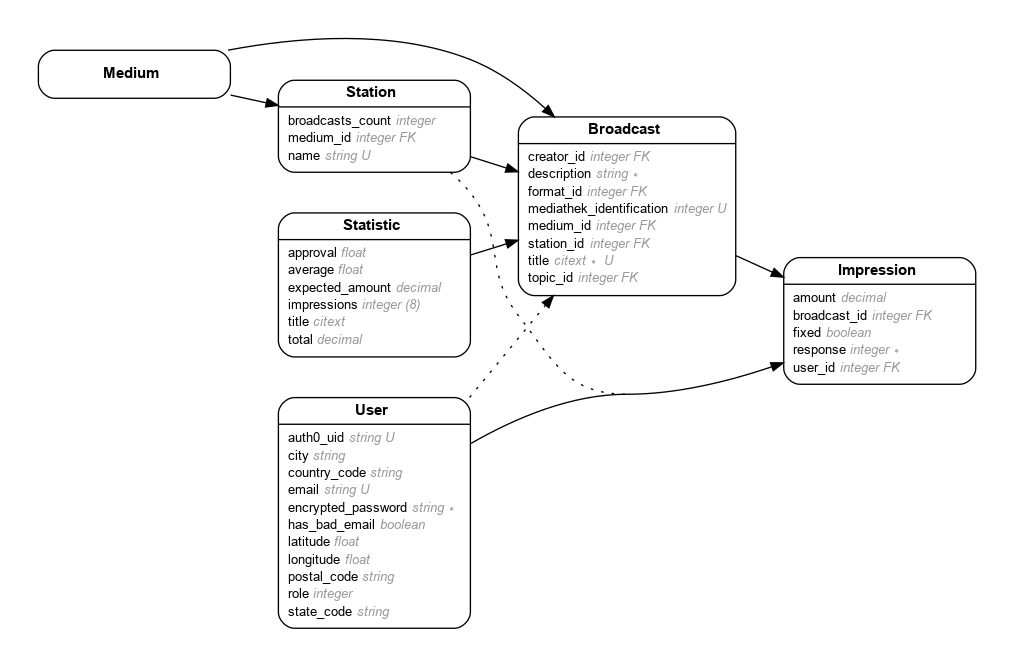
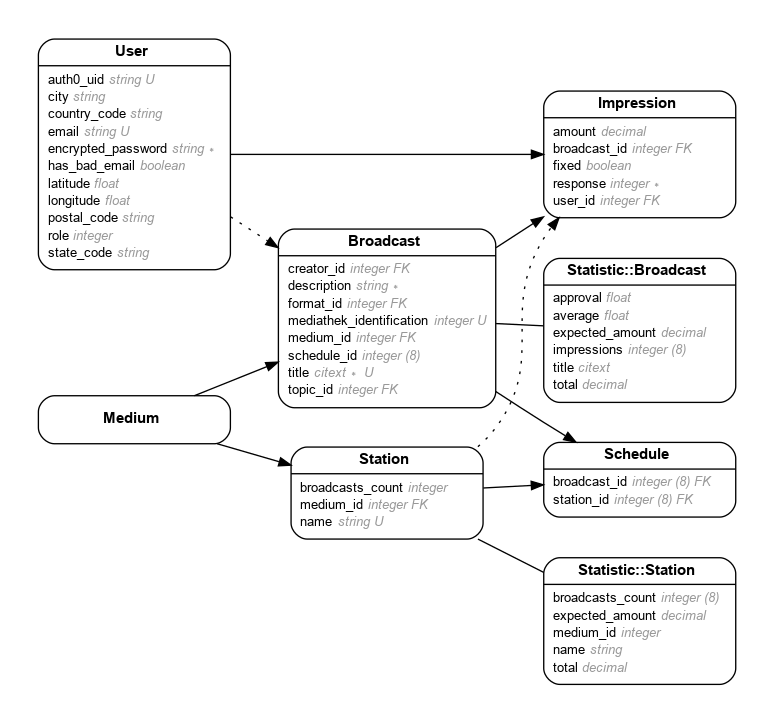
get the has_one/belongs_to associations right

diff --git a/backend/app/controllers/statistic/broadcasts_controller.rb b/backend/app/controllers/statistic/broadcasts_controller.rb
@@ -1,20 +1,22 @@
-class Statistic::BroadcastsController < ApplicationController
-  load_and_authorize_resource
+module Statistic
+  class BroadcastsController < ApplicationController
+    load_and_authorize_resource
 
-  def index
-    page = (statistics_params[:page] || 1).to_i
-    per_page = (statistics_params[:per_page] || 10).to_i
-    order_params = {}
-    # TODO: is there a better way to do this with strong params?
-    column = Statistic::Broadcast.column_names.include?(statistics_params[:column]) ? statistics_params[:column] : :total
-    direction = %w[asc desc].include?(statistics_params[:direction]) ? statistics_params[:direction] : :desc
-    order_params.store(column, direction)
+    def index
+      page = (statistics_params[:page] || 1).to_i
+      per_page = (statistics_params[:per_page] || 10).to_i
+      order_params = {}
+      # TODO: is there a better way to do this with strong params?
+      column = Statistic::Broadcast.column_names.include?(statistics_params[:column]) ? statistics_params[:column] : :total
+      direction = %w[asc desc].include?(statistics_params[:direction]) ? statistics_params[:direction] : :desc
+      order_params.store(column, direction)
 
-    @statistics = Statistic::Broadcast.order(order_params).order(title: :asc).page(page).per(per_page)
-    render json: @statistics, meta: { total_pages: @statistics.total_pages }
-  end
+      @statistics = Statistic::Broadcast.order(order_params).order(title: :asc).page(page).per(per_page)
+      render json: @statistics, meta: { total_pages: @statistics.total_pages }
+    end
 
-  def statistics_params
-    params.permit(:column, :direction, :page, :per_page)
+    def statistics_params
+      params.permit(:column, :direction, :page, :per_page)
+    end
   end
 end

diff --git a/backend/spec/requests/chart_data/diff_spec.rb b/backend/spec/requests/chart_data/diff_spec.rb
@@ -251,10 +251,10 @@ RSpec.describe 'ChartData', type: :request do
 
       # BROADCASTS
       # Station 1
-      create(:broadcast, id: 1, station_ids: [1,2,3])
-      create(:broadcast, id: 2, station_ids: [2,3])
+      create(:broadcast, id: 1, station_ids: [1, 2, 3])
+      create(:broadcast, id: 2, station_ids: [2, 3])
       create(:broadcast, id: 3, station_ids: [3])
-      create(:broadcast, id: 4, station_ids: [4,5])
+      create(:broadcast, id: 4, station_ids: [4, 5])
 
       # IMPRESSIONS
       create_list(:impression, 9,  broadcast_id: 1, response: :positive, amount: 6)
@@ -263,7 +263,7 @@ RSpec.describe 'ChartData', type: :request do
       create_list(:impression, 8,  broadcast_id: 4, response: :positive, amount: 4)
 
       # Neutral
-      create_list(:impression, 10,  broadcast_id: 2, response: :neutral)
+      create_list(:impression, 10, broadcast_id: 2, response: :neutral)
     end
 
     after(:all) do

diff --git a/backend/app/models/statistic/station.rb b/backend/app/models/statistic/station.rb
@@ -1,9 +1,11 @@
-class Statistic::Station < ApplicationRecord
-  self.primary_key = :id
-  belongs_to :station, foreign_key: :id
-  # this isn't strictly necessary, but it will prevent
-  # rails from calling save, which would fail anyway.
-  def readonly?
-    true
+module Statistic
+  class Station < ApplicationRecord
+    self.primary_key = :id
+    belongs_to :station, class_name: '::Station', foreign_key: :id
+    # this isn't strictly necessary, but it will prevent
+    # rails from calling save, which would fail anyway.
+    def readonly?
+      true
+    end
   end
 end

diff --git a/backend/app/models/broadcast.rb b/backend/app/models/broadcast.rb
@@ -13,7 +13,7 @@ class Broadcast < ApplicationRecord
   has_many :schedules
   has_many :stations, through: :schedules
   belongs_to :creator, class_name: 'User', optional: true
-  belongs_to :statistic, class_name: 'Statistic::Broadcast', foreign_key: :id, optional: true
+  has_one :statistic, class_name: 'Statistic::Broadcast', foreign_key: :id
   validates :title, presence: true, uniqueness: { case_sensitive: false }
   validates :description, presence: true, length: { minimum: 30 }
   validates :medium, presence: true

diff --git a/backend/app/models/station.rb b/backend/app/models/station.rb
@@ -3,6 +3,7 @@ class Station < ApplicationRecord
   has_many :schedules
   has_many :broadcasts, through: :schedules
   has_many :impressions, through: :broadcasts
+  has_one :statistic, class_name: 'Statistic::Station', foreign_key: :id
   attribute :name
   validates :medium, presence: true
   validates :name, uniqueness: true

diff --git a/backend/spec/requests/statistics_spec.rb b/backend/spec/requests/statistics_spec.rb
@@ -1,6 +1,6 @@
 require 'rails_helper'
 
-RSpec.describe "Statistics", type: :request do
+RSpec.describe 'Statistics', type: :request do
   describe 'GET' do
     let(:params) { {} }
     let(:request) { get url, params: params }

diff --git a/backend/app/models/statistic/broadcast.rb b/backend/app/models/statistic/broadcast.rb
@@ -3,7 +3,7 @@ module Statistic
     self.primary_key = :id
     paginates_per 10
 
-    belongs_to :broadcast, foreign_key: :id
+    belongs_to :broadcast, class_name: '::Broadcast', foreign_key: :id
 
     private
 
